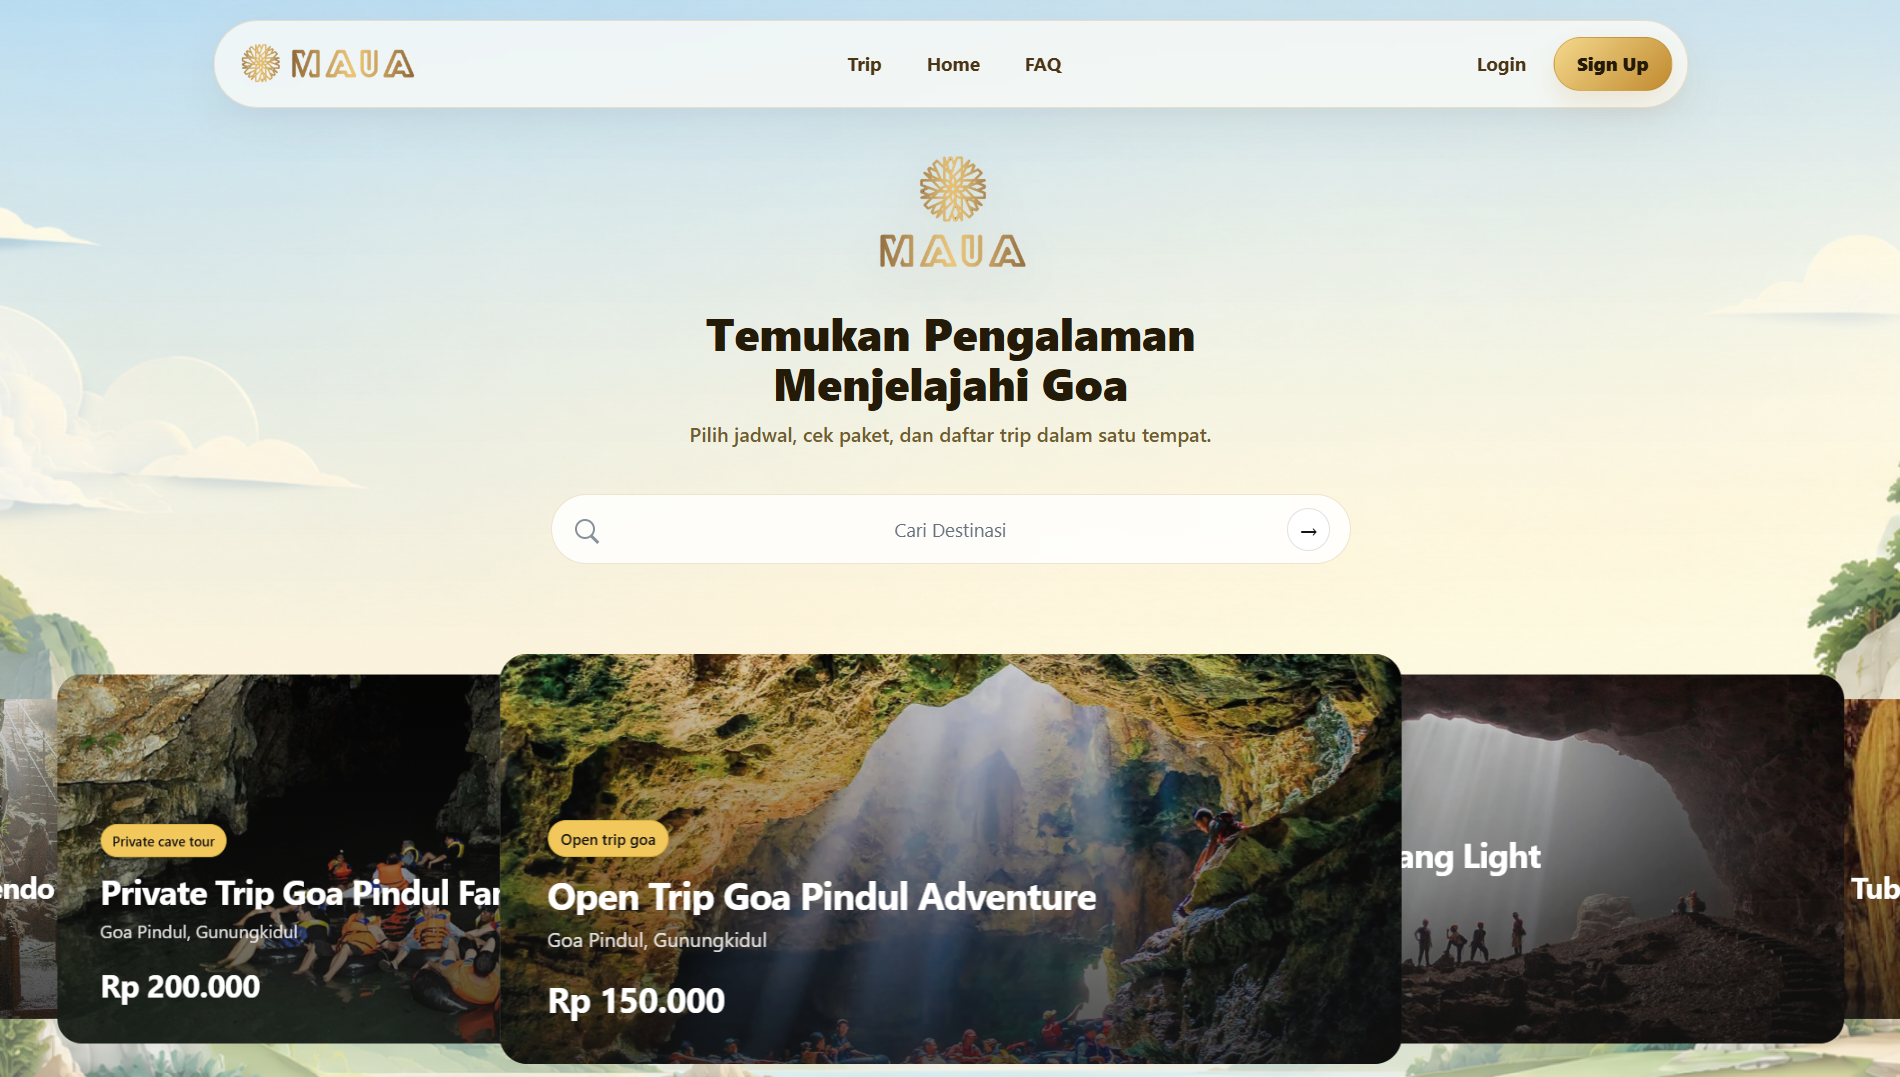
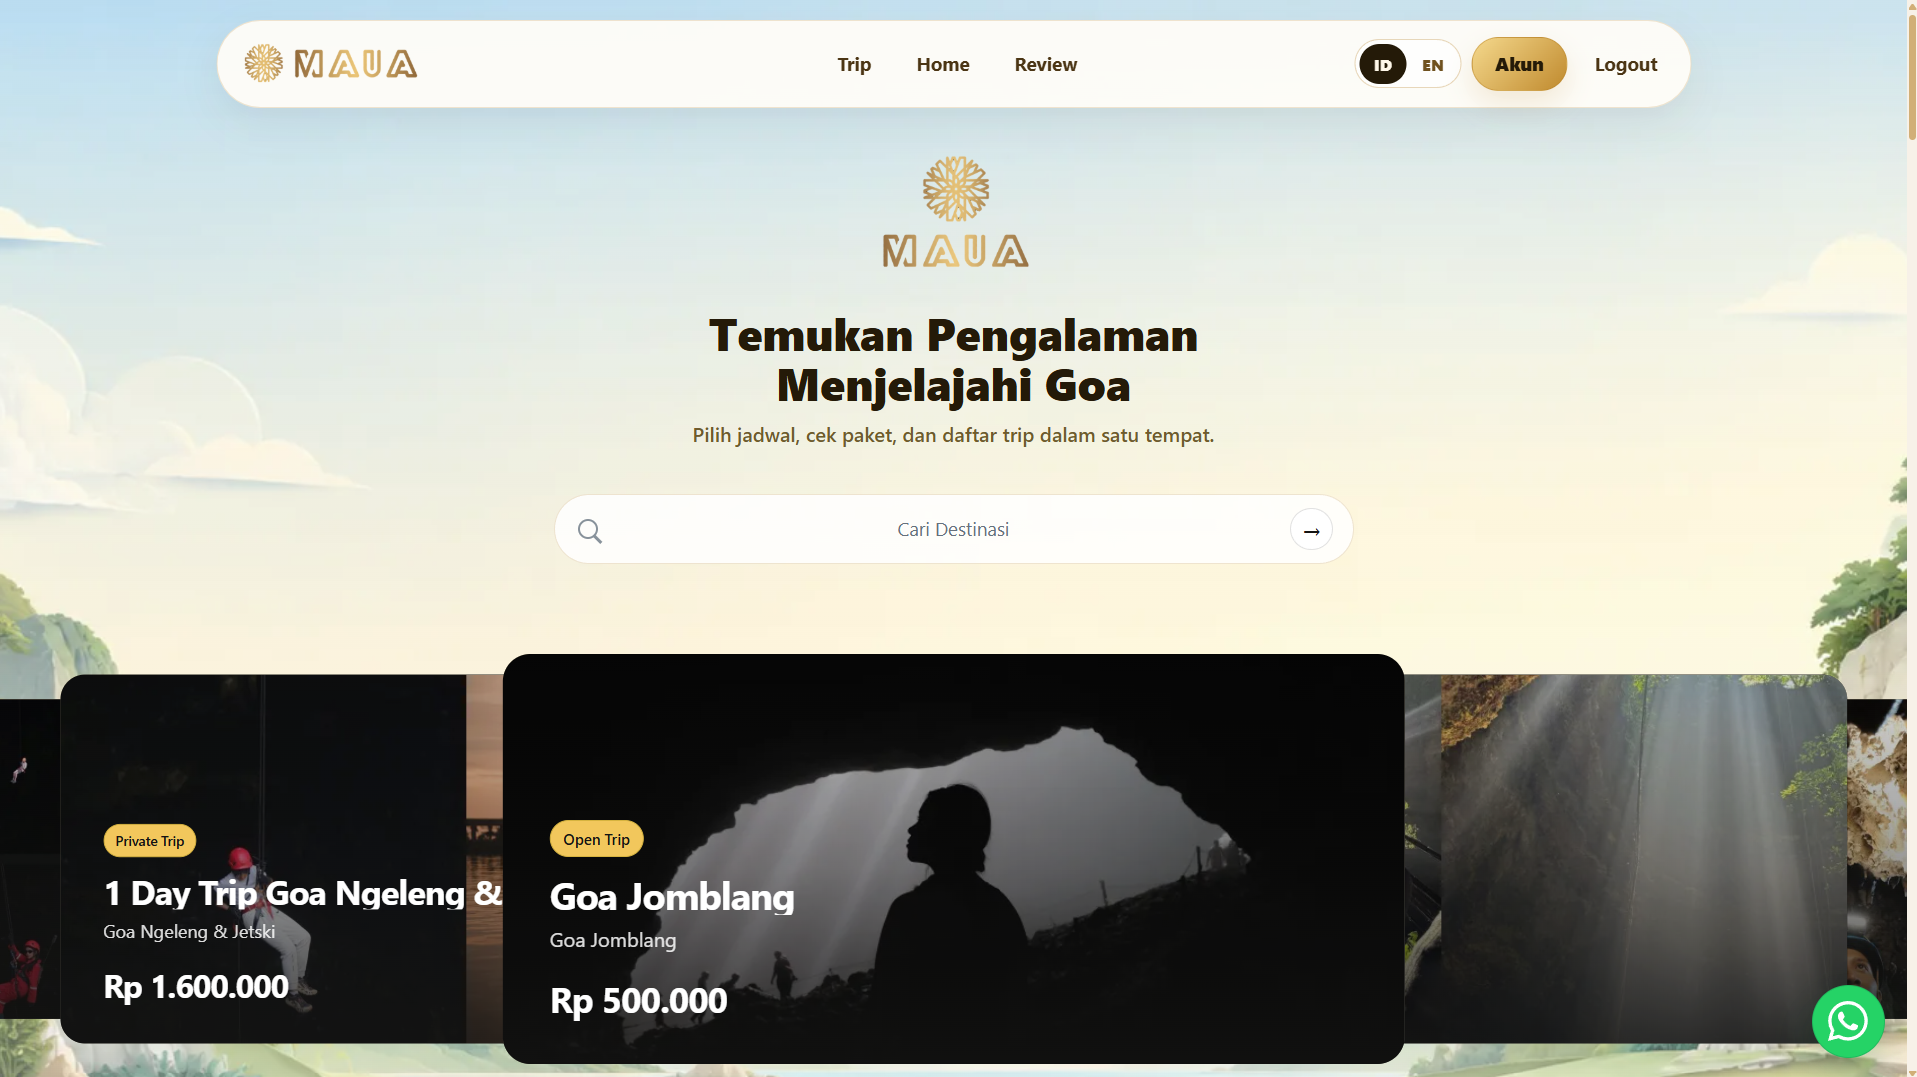
commit

diff --git a/src/dashboard.jsx b/src/dashboard.jsx
@@ -40,22 +40,6 @@ const ArrowLeft = ({ className }) => (
 
 const projects = [
     {
-        slug: "findive",
-        title: "Findive",
-        description: "Website perusahaan dengan presentasi layanan yang bersih, visual, dan langsung ke kebutuhan pengunjung.",
-        image: "/images/Findive1.png",
-        images: ["/images/Findive1.png", "/images/Findive2.png", "/images/Findive3.png"],
-        link: "https://findives.netlify.app/",
-        accent: "border-blue-200",
-        label: "Company Profile",
-        year: "2026",
-        type: "Company Profile",
-        stack: ["React", "Tailwind CSS", "Netlify"],
-        summary: "Findive dibuat sebagai website company profile yang menampilkan identitas, layanan, dan nilai perusahaan dengan alur baca yang jelas. Halamannya dirancang agar pengunjung cepat memahami fokus bisnis dan mudah menuju informasi penting.",
-        impact: "Website ini membantu presentasi layanan terlihat lebih profesional, mengurangi kebingungan pengunjung baru, dan memberi kanal digital yang siap dibagikan ke calon klien maupun partner.",
-        personalImpact: "Proyek ini menjadi pengalaman pertama saya dalam mendapatkan klien secara langsung. Melalui proses ini, saya belajar berinteraksi dengan klien, menggali keluhan serta kebutuhan mereka, kemudian menerjemahkannya menjadi solusi website yang lebih jelas, terarah, dan sesuai dengan masalah yang ingin diselesaikan.",
-    },
-    {
         slug: "Maua Project",
         title: "Maua Project",
         description: "Website open trip dengan katalog perjalanan yang rapi, informatif, dan memudahkan pengunjung melihat destinasi, jadwal, harga, serta melakukan pendaftaran secara online.",
@@ -72,13 +56,29 @@ const projects = [
         personalImpact: "Proyek ini memberikan saya pengalaman dalam menangani kebutuhan klien yang lebih kompleks. Dalam proyek ini, saya belajar merancang sistem pemesanan online langsung melalui website, membuat halaman worker untuk mengambil job pada setiap open trip, serta mengembangkan halaman admin untuk membuat jadwal, menyetujui pelanggan yang dapat mengikuti trip, dan membagikan job kepada para worker.",
     },
     {
+        slug: "MyActivity",
+        title: "MyActivity",
+        description: "Website manajemen aktivitas pribadi yang membantu pengguna mengatur rutinitas mingguan, mencatat agenda dan deadline, memantau penyelesaian aktivitas, serta menjaga konsistensi melalui fitur streak.",
+        image: "/images/myactivitys1.png",
+        images: ["/images/myactivitys1.png", "/images/myactivitys2.png", "/images/myactivitys3.png"],
+        link: "https://myactivitys.netlify.app/",
+        accent: "border-indigo-200",
+        label: "Personal Activity Management Web Application",
+        year: "2026",
+        type: "Productivity Web Application",
+        stack: ["React", "Tailwind CSS", "Responsive Design", "Calendar System", "Activity Tracking"],
+        summary: "MyActivity merupakan aplikasi produktivitas pribadi untuk mengelola rutinitas harian dan agenda dalam satu tempat. Pengguna dapat melihat aktivitas selama satu minggu melalui dashboard, menandai aktivitas yang telah selesai, memantau current streak dan perfect streak, serta melihat agenda atau deadline terdekat. Aplikasi juga menyediakan kalender bulanan dengan fitur pencarian dan filter berdasarkan jenis maupun status agenda.",
+        impact: "Pengelolaan rutinitas, rapat, acara, ujian, dan deadline menjadi lebih terstruktur karena seluruh aktivitas dapat dipantau melalui dashboard dan kalender terintegrasi. Informasi progres harian, streak, serta agenda terdekat membantu pengguna menentukan prioritas dan mengurangi risiko melewatkan kegiatan penting.",
+        personalImpact: "Proyek ini memberikan saya pengalaman dalam merancang aplikasi produktivitas dengan alur penggunaan yang saling terhubung antara dashboard, aktivitas mingguan, dan kalender. Saya belajar membuat sistem aktivitas berulang, pencatatan agenda dan deadline, perhitungan progres serta streak, filter kalender, detail agenda, dan status penyelesaian aktivitas. Saya juga mengembangkan antarmuka yang tetap informatif meskipun menampilkan banyak data dalam satu halaman.",
+    },
+    {
         slug: "duatduit",
         title: "DuatDuit",
         description: "Aplikasi web finansial dengan fokus pada pengalaman yang ringkas dan mudah dipahami.",
         image: "/images/duatduit1.png",
         images: ["/images/duatduit1.png", "/images/duatduit2.png", "/images/duatduit3.png"],
         link: "https://duatduit.netlify.app/",
-        accent: "border-blue-200",
+        accent: "border-green-200",
         label: "Web App",
         year: "2025",
         type: "Financial Web App",
